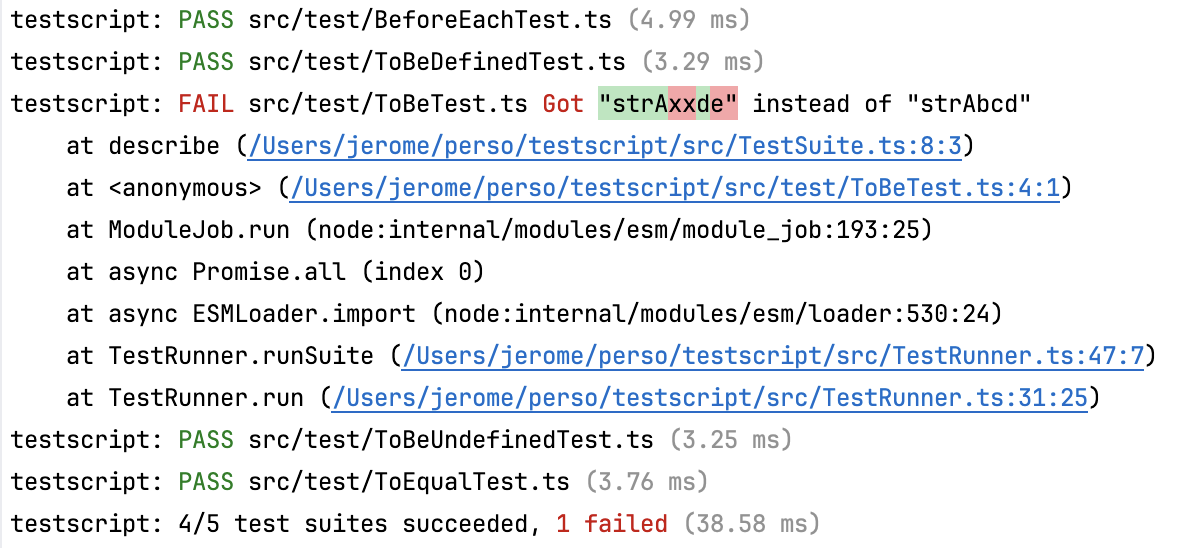
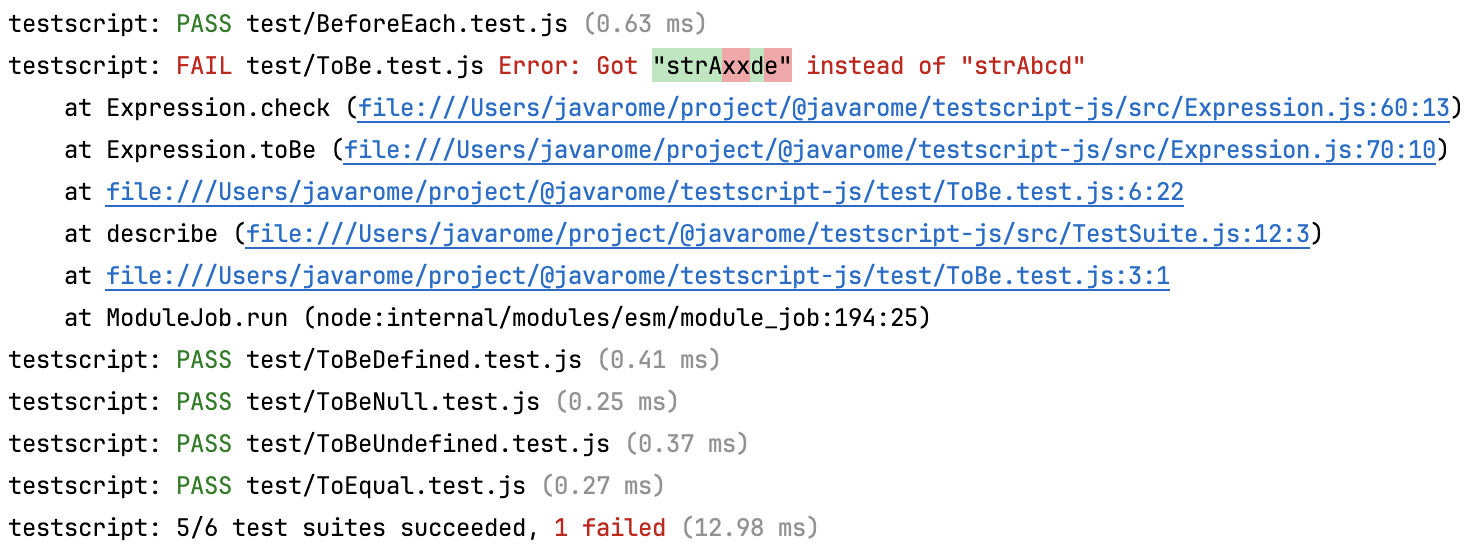
fix js stack

Changed region(s): [[0.0, 0.0, 1.0, 0.6825], [0.0, 0.7135, 0.9375, 0.8996], [0.0, 0.9307, 0.6875, 0.9927]]

diff --git a/src/TestRunner.js b/src/TestRunner.js
@@ -123,13 +123,7 @@ export class TestRunner {
       status = AnsiColor.str('FAIL', AnsiColor.fgRed)
       let stack = error.stack
       if (stack) {
-        let filePattern = file.replaceAll('/', '\/')
-        const errorRegExp = new RegExp(`.*(Error: (.+)\\n)[\\s\\S]*?${filePattern}:\\d+:\\d+\\)\n([\\s\\S]*)`,
-          'gm')
-        let items = errorRegExp.exec(stack)
-        if (items && items.length > 0) {
-          details = AnsiColor.str(items[2] + '\n' + items[3], AnsiColor.fgRed)
-        }
+        details = AnsiColor.str(stack, AnsiColor.fgRed)
       }
     } else {
       status = AnsiColor.str('PASS', AnsiColor.fgGreen)

diff --git a/test/BeforeEach.test.js b/test/BeforeEach.test.js
@@ -1,5 +1,4 @@
-import { beforeEach, describe, test } from '../TestSuite.js';
-import { expect } from '../Expression.js';
+import { beforeEach, describe, expect, test } from '../src/index.js'
 
 describe('beforeEach(() => {})', () => {
   let fixture;

diff --git a/test/ToBeDefined.test.js b/test/ToBeDefined.test.js
@@ -1,5 +1,4 @@
-import { expect } from '../Expression.js';
-import { describe } from '../TestSuite.js';
+import { describe, expect } from '../src/index.js'
 
 describe('expect(toBeTested).toBeDefined()', () => {
   expect(undefined).not.toBeDefined()

diff --git a/test/ToBeUndefined.test.js b/test/ToBeUndefined.test.js
@@ -1,5 +1,4 @@
-import { describe } from '../TestSuite.js';
-import { expect } from '../Expression.js';
+import { describe, expect } from '../src/index.js'
 
 describe('expect(toBeTested).toBeUndefined()', () => {
   expect(undefined).toBeUndefined()

diff --git a/test/ToEqual.test.js b/test/ToEqual.test.js
@@ -1,5 +1,4 @@
-import { describe } from '../TestSuite.js';
-import { expect } from '../Expression.js';
+import { describe, expect } from '../src/index.js'
 
 describe('expect(toBeTested).toEqual(expected)', () => {
   expect({}).toEqual({})

diff --git a/test/ToBeNull.test.js b/test/ToBeNull.test.js
@@ -1,5 +1,4 @@
-import { expect } from '../Expression.js';
-import { describe } from '../TestSuite.js';
+import { describe, expect } from '../src/index.js'
 
 describe('expect(toBeTested).toBeNull()', () => {
   expect(null).toBeNull()

diff --git a/test/ToBe.test.js b/test/ToBe.test.js
@@ -1,5 +1,4 @@
-import { expect } from '../Expression.js';
-import { describe } from '../TestSuite.js';
+import { describe, expect } from '../src/index.js'
 
 describe('expect(toBeTested).toBe(expected)', () => {
   expect(1).toBe(1)
